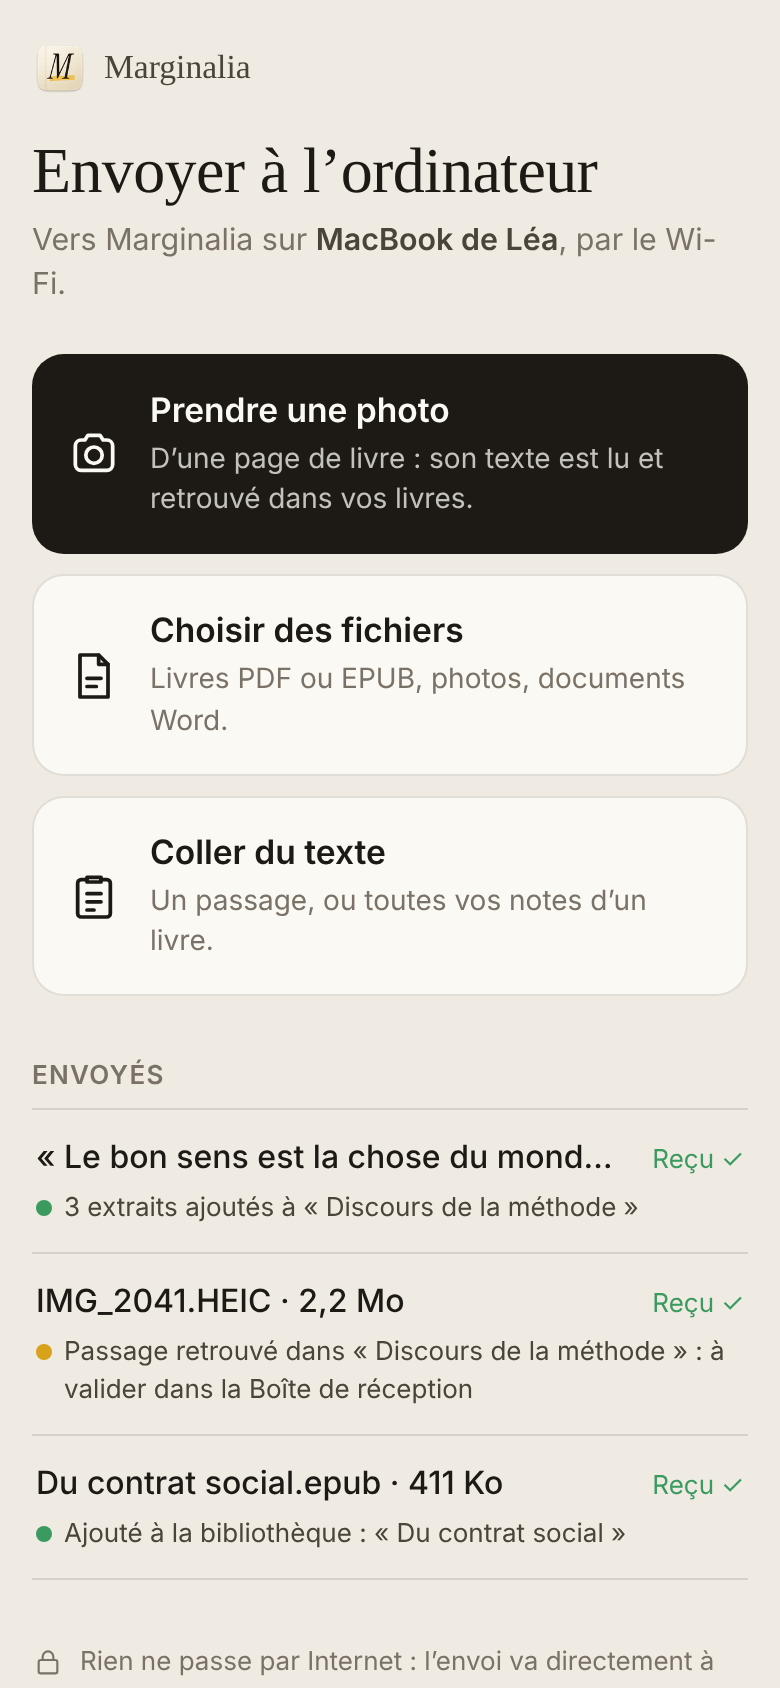
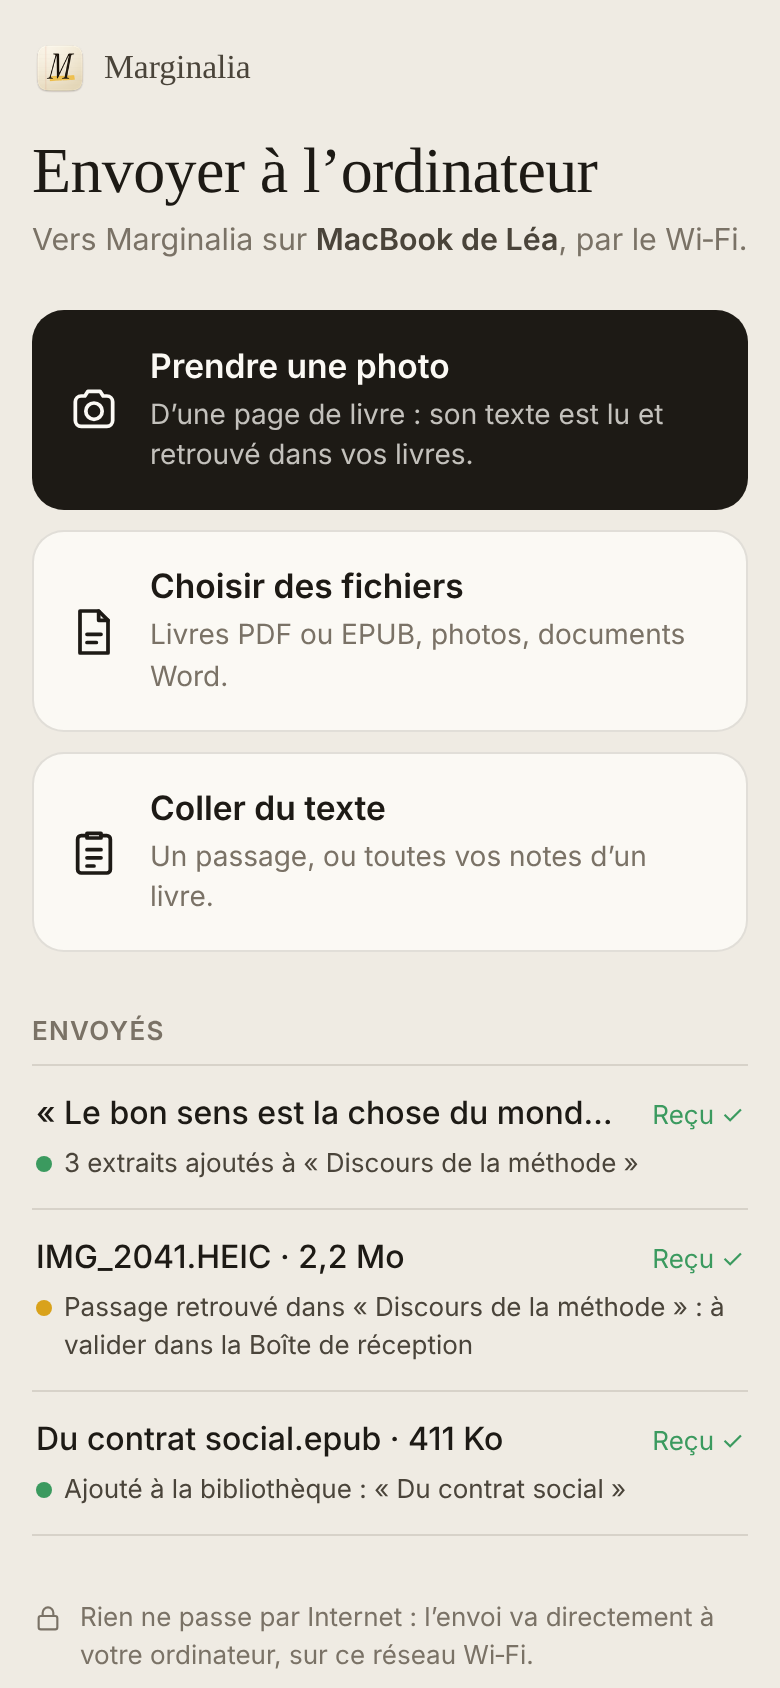
3.24 : nouveautés, récap de Release, aide et README ; site : section « Du téléphone à l'ordinateur, par un QR code »
- Site : section QR code (fenêtre de l'app et page du téléphone), import d'un dossier dans les fonctions, version 3.24
- « Quoi de neuf » 3.24 et release-notes/3.24.md ; aide : page Importer

Claude-Session: https://claude.ai/code/session_01Sei4Hk5zrYgyioUhAQVXiS

diff --git a/site/src/main.tsx b/site/src/main.tsx
@@ -120,6 +120,7 @@ const PERCHES: Record<string, PerchDef> = {
   carte: { side: 'right', inset: 2.5, seq: () => [['classify', 600000]] },
   espaces: { side: 'right', inset: 2, seq: () => [['juggle', 600000]] },
   livres: { side: 'right', inset: 2, seq: () => [['plane', 600000]] },
+  qr: { side: 'right', inset: 2.5, seq: () => [['spyglass', 600000]] },
   fonctions: { side: 'slot', inset: 0, seat: true, seq: (b) => [[MORE[b.group]?.pose ?? 'read', 600000]] },
   telecharger: { side: 'right', inset: 1, seq: () => [['wave', 3000], ['whistle', 5000]] },
 };
@@ -463,6 +464,7 @@ const MORE: { icon: string; title: string; pose: Pose; line: string; items: stri
       'Synchronisation avec l’app Livres d’Apple (Mac)',
       'Depuis le téléphone, par le Wi-Fi (QR code) : photo, livre ou passage copié',
       'Notes de l’app Livres ou de Play Livres collées : un extrait par passage',
+      'Un dossier entier importé d’un coup, ou glissé dans la fenêtre',
       'Le texte d’une photo : en extrait, ou en nouvel écrit',
       'Défilement continu ou page par page, comme un livre',
       'Deux textes côte à côte',
@@ -744,9 +746,8 @@ function App() {
               Vous le sélectionnez et le surlignez comme dans un livre, et vous corrigez d’un clic une ligne mal lue.
             </p>
             <p>
-              Depuis le téléphone, c’est encore plus simple : scannez le QR code affiché par Marginalia et prenez la photo. Elle arrive par
-              le Wi-Fi, sans câble ni compte, sur iPhone comme sur Android. Marginalia retrouve le passage dans vos livres et l’ajoute comme
-              extrait, ou en fait un nouvel écrit.
+              Depuis le téléphone, il suffit de scanner un QR code et de prendre la photo. Marginalia retrouve le passage dans vos livres et
+              l’ajoute comme extrait, ou en fait un nouvel écrit.
             </p>
           </div>
           <div className="photo-stack">
@@ -801,6 +802,27 @@ function App() {
           </div>
           <div className="shot-wrap books-wrap" data-perch="livres">
           <img className="books-shot" src="/captures/livres.png" alt="La fenêtre Livres d’Apple de Marginalia : choix des livres et correspondance des couleurs" width={560} height={503} loading="lazy" />
+          </div>
+        </section>
+
+        <section className="qr reveal" id="qr" aria-labelledby="qr-title">
+          <div className="qr-stack">
+            <div className="shot-wrap" data-perch="qr">
+              <img className="qr-shot" src="/captures/qr-app.png" alt="La fenêtre « Recevoir depuis le téléphone » de Marginalia : un QR code, l’iPhone connecté, et pour chaque envoi ce qu’il est devenu" width={1280} height={1152} loading="lazy" />
+            </div>
+            <img className="qr-phone" src="/captures/qr-telephone.png" alt="La page « Envoyer à l’ordinateur » sur l’iPhone : prendre une photo, choisir des fichiers, coller du texte, et les envois reçus" width={780} height={1688} loading="lazy" />
+          </div>
+          <div className="qr-text">
+            <h2 id="qr-title">Du téléphone à l’ordinateur, par un QR code</h2>
+            <p>
+              Dans Marginalia, « Importer » affiche un QR code. Scannez-le avec l’appareil photo de votre iPhone ou de votre téléphone Android : une page
+              s’ouvre, sans rien installer. Prenez en photo une page de livre, envoyez un PDF, un EPUB, un document Word, ou collez toutes vos notes d’un livre.
+            </p>
+            <p>
+              Chaque envoi arrive aussitôt, et vous savez où il est allé, sur l’ordinateur comme sur le téléphone : dans la bibliothèque, en extrait au bon
+              endroit du livre, ou dans la Boîte de réception pour que vous décidiez.
+            </p>
+            <p className="qr-note">Par le Wi-Fi de la maison, sans compte : rien ne passe par Internet, et la réception se ferme avec sa fenêtre.</p>
           </div>
         </section>
 

diff --git a/src/features/help/HelpView.tsx b/src/features/help/HelpView.tsx
@@ -248,7 +248,7 @@ const SECTIONS: Section[] = [
     intro: 'Livres et documents se rangent dans la Bibliothèque ; les fichiers Word et Markdown deviennent des écrits modifiables.',
     items: [
       { title: 'Formats', text: 'EPUB, PDF, TXT, HTML, et images (JPG, PNG, HEIC…) dont le texte est reconnu automatiquement (OCR, sans connexion). Les .docx et .md vont dans Écrits.' },
-      { title: 'Trois façons d’importer', text: `Le bouton Importer, le raccourci, ou glisser des fichiers n’importe où dans la fenêtre. Vous pouvez aussi ouvrir un fichier depuis ${OS_TEXT.fileManager} avec Marginalia.`, keys: ['⌘O'] },
+      { title: 'Importer', text: `Le bouton Importer ouvre la page Importer : glissez-y des fichiers ou un dossier entier (sous-dossiers compris), choisissez des fichiers ou un dossier, affichez le QR code du téléphone, ou passez par un dossier synchronisé et l’app Livres. Le raccourci ouvre directement le choix de fichiers ; on peut aussi glisser des fichiers ou des dossiers n’importe où dans la fenêtre, ou ouvrir un fichier depuis ${OS_TEXT.fileManager} avec Marginalia.`, keys: ['⌘O'] },
       { appleBooks: true, title: 'Depuis l’app Livres (iCloud)', text: 'Dans la Bibliothèque, « Depuis Livres » liste vos EPUB et PDF de l’app Livres d’Apple. Les livres protégés (DRM) ne peuvent pas être importés. Avec « Synchroniser automatiquement », un livre sans DRM ajouté sur votre iPhone arrive tout seul dans Marginalia.' },
       { appleBooks: true, title: 'Surlignages, signets et position de Livres', text: 'Pour les EPUB sans DRM déjà dans Marginalia, vos surlignages (avec leurs notes), vos signets et l’endroit où vous en êtes dans Livres sont repris automatiquement, marqués « Livres ». Chaque couleur de Livres devient une catégorie (jaune → Thèse, vert → Argument, bleu → Concept, rose → Thèse adverse, violet → Exemple, souligné → Problème), modifiable dans « Depuis Livres » (une couleur peut aussi devenir un « Surlignage simple », sans catégorie, ou une note de marge). La synchro va de Livres vers Marginalia seulement : ce que vous changez ici n’est jamais écrasé, et rien n’est modifié dans Livres.' },
       { title: 'Importer dans un espace', text: 'Importer ou glisser un fichier depuis un espace de travail le range directement dans cet espace (et le groupe ouvert). Depuis la Bibliothèque, il n’est rangé nulle part.' },

diff --git a/src/features/updates/news.ts b/src/features/updates/news.ts
@@ -5,7 +5,7 @@
 // ─────────────────────────────────────────────────────────────
 
 export type NewsIcon = 'phone' | 'notes' | 'update' | 'map' | 'lock' | 'sparkles';
-export type NewsAction = 'wifi' | 'inbox' | 'settings' | 'maps';
+export type NewsAction = 'wifi' | 'inbox' | 'settings' | 'maps' | 'import';
 
 export interface NewsItem {
   icon: NewsIcon;
@@ -20,6 +20,32 @@ export interface NewsEntry {
 }
 
 export const NEWS: NewsEntry[] = [
+  {
+    version: '3.24',
+    items: [
+      {
+        icon: 'sparkles',
+        title: 'Une page « Importer »',
+        text: 'Le bouton Importer ouvre une page où glisser des fichiers ou un dossier entier (sous-dossiers compris), choisir sur l’ordinateur, afficher le QR code du téléphone, ou passer par un dossier synchronisé et l’app Livres.',
+        action: { label: 'Voir', run: 'import' },
+      },
+      {
+        icon: 'phone',
+        title: 'Vous savez où va chaque envoi',
+        text: 'Après un envoi par QR code, l’ordinateur et le téléphone disent ce qu’il est devenu : ajouté à la bibliothèque, extrait au bon endroit du livre, ou à valider dans la Boîte de réception. Un bouton y mène directement.',
+      },
+      {
+        icon: 'lock',
+        title: 'Sur Mac, l’autorisation de Livres guidée',
+        text: 'Après une mise à jour, macOS oublie l’autorisation « Accès complet au disque » donnée à l’ancienne version. Marginalia le détecte et vous guide pas à pas pour la redonner.',
+      },
+      {
+        icon: 'update',
+        title: 'Sur Windows, plus d’alerte d’antivirus',
+        text: 'La liste des polices est lue directement dans les fichiers de polices, sans lancer de programme : les antivirus n’ont plus rien à signaler.',
+      },
+    ],
+  },
   {
     version: '3.23',
     items: [

diff --git a/site/src/site.css b/site/src/site.css
@@ -447,3 +447,29 @@ a.btn-primary:hover { background: #3a342b; }
   .carte { margin-top: 6rem; }
   .carte h2 { font-size: 2.5rem; }
 }
+
+/* ── Du téléphone à l'ordinateur, par un QR code ── */
+.qr {
+  max-width: 75rem; margin: 9rem auto 0; padding: 0 var(--gutter);
+  display: grid; grid-template-columns: minmax(0, 7fr) minmax(0, 5fr); gap: 4.5rem; align-items: center;
+}
+.qr h2 { font-size: 3.5rem; }
+.qr p { margin: 1rem 0 0; color: var(--ink-2); max-width: 42ch; }
+.qr .qr-note { font-family: var(--font-ui); font-size: 0.875rem; color: var(--muted); }
+.qr-stack { position: relative; padding: 0 4.5rem 3rem 0; }
+.qr-shot { display: block; width: 100%; height: auto; border-radius: 0.875rem; box-shadow: var(--shadow-lg); }
+.qr-phone {
+  position: absolute; right: 0; bottom: 0; width: 34%; height: auto; border-radius: 1.4rem;
+  border: 0.375rem solid #1d1a15; box-shadow: 0 1px 2px rgba(30, 24, 14, 0.1), 0 28px 56px -18px rgba(30, 24, 14, 0.45);
+}
+@media (max-width: 900px) {
+  .qr { grid-template-columns: minmax(0, 1fr); gap: 1.75rem; }
+  .qr-text { order: -1; }
+  .qr-stack { padding: 0 2.5rem 2rem 0; }
+  .qr .shot-wrap { margin-top: 0; }
+}
+@media (max-width: 620px) {
+  .qr { margin-top: 6rem; }
+  .qr h2 { font-size: 2.5rem; }
+  .qr-phone { width: 40%; border-width: 0.25rem; border-radius: 1rem; }
+}

diff --git a/site/src/downloads.ts b/site/src/downloads.ts
@@ -2,7 +2,7 @@
 // par .github/workflows/release.yml). Le dépôt doit être public pour que ces liens marchent.
 // Laisser une URL vide affiche « Bientôt ».
 const BASE = 'https://github.com/FavveyAxel/marginalia/releases/latest/download';
-export const VERSION = '3.23';
+export const VERSION = '3.24';
 
 export interface Download {
   id: 'mac-arm64' | 'mac-x64' | 'win-x64' | 'win-arm64';

diff --git a/src/features/updates/Updates.tsx b/src/features/updates/Updates.tsx
@@ -114,6 +114,7 @@ function runAction(a: NewsAction) {
   else if (a === 'inbox') s.navigate({ name: 'inbox' });
   else if (a === 'settings') s.navigate({ name: 'settings' });
   else if (a === 'maps') s.navigate({ name: 'maps' });
+  else if (a === 'import') s.navigate({ name: 'import' });
 }
 
 function useEscape(onClose: () => void) {

diff --git a/release-notes/3.24.md b/release-notes/3.24.md
@@ -1,0 +1,11 @@
+## Nouveautés
+
+- **Une page « Importer »** : le bouton Importer ouvre une page où glisser des fichiers ou un dossier entier (sous-dossiers compris), choisir des fichiers ou un dossier sur l’ordinateur, afficher le QR code du téléphone, ou passer par un dossier synchronisé et l’app Livres. ⌘O / Ctrl+O ouvre toujours directement le choix de fichiers.
+- **Vous savez où va chaque envoi** : après un envoi par QR code, l’ordinateur et le téléphone disent ce qu’il est devenu (ajouté à la bibliothèque, extrait au bon endroit du livre, ou à valider dans la Boîte de réception), avec un bouton pour l’ouvrir.
+- **Sur Mac, l’autorisation de Livres guidée** : après une mise à jour, macOS oublie l’autorisation « Accès complet au disque » donnée à l’ancienne version. Marginalia le détecte et vous guide pas à pas pour la retirer puis la redonner.
+- **Sur Windows, plus d’alerte d’antivirus** : la liste des polices est lue directement dans les fichiers de polices, sans lancer de programme.
+- La page du téléphone affiche le vrai logo de Marginalia.
+
+## Installer
+
+Téléchargez la version pour votre ordinateur sur [le site de Marginalia](https://marginalia-bice.vercel.app/#telecharger) et installez-la par-dessus l’ancienne : vos livres, notes et écrits sont conservés.

diff --git a/README.md b/README.md
@@ -5,8 +5,9 @@ Gratuite, sans compte, tout reste sur l'ordinateur. Site : <https://marginalia-b
 
 - Lecture EPUB, PDF, DOCX, Markdown, TXT, HTML, photos et scans (texte reconnu hors ligne) ; deux textes côte à côte
 - Synchronisation avec l'app Livres d'Apple (Mac) : livres, surlignages, notes, signets, position de lecture
+- Page « Importer » : glisser-déposer de fichiers ou de dossiers entiers, choix de fichiers ou d'un dossier, QR code, dossier synchronisé, app Livres
 - Depuis le téléphone (iPhone, Android) : par le Wi-Fi en scannant un QR code (photos, livres, documents, passages ou notes
-  de l'app Livres collées), ou par un dossier synchronisé (iCloud Drive, OneDrive) ; texte des photos reconnu et passage retrouvé dans vos livres
+  de l'app Livres collées, et chaque envoi dit où il est allé), ou par un dossier synchronisé (iCloud Drive, OneDrive) ; texte des photos reconnu et passage retrouvé dans vos livres
 - Surlignage en 6 catégories (problème, thèse, argument, thèse adverse, concept, exemple), notes « ma voix »
 - Fiche-texte et mouvements, reconstruction prémisses → conclusion
 - Cartes pour organiser sa pensée : carte d'argument de chaque livre, cartes libres sur plusieurs livres,
